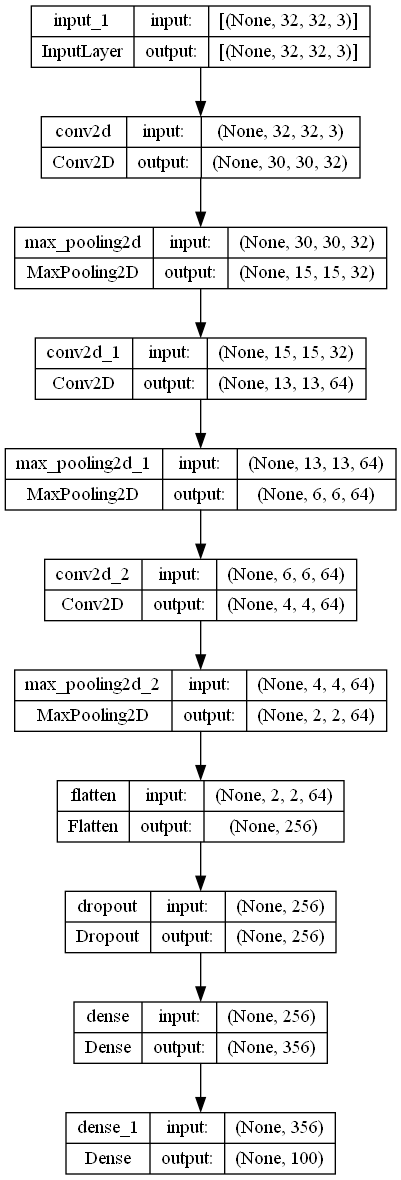
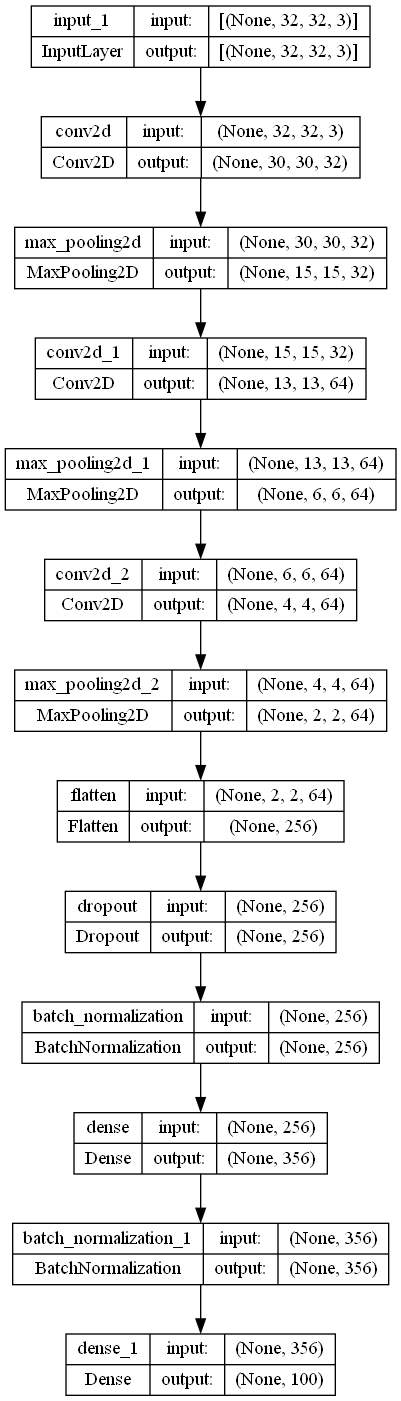
Accuracy Improvements + Advanced Visualizations
Progress Updates:
- 7% accuracy increase between RCM and Dense
- This isn't too accurate, since RCM has way more connections than Dense
- The propagation cap is now at 4 instead of 2

Changelog:
- Added a plot_from_model method to visualization.py
- Changed the example CIFAR configuration of the model from using ReLU-ReLU-Softmax to using only ReLU, with an additional Softmax conversion Dense layer at the end of the network
- Changed hyperparameters of CIFAR example for higher accuracy (optimizer, epochs, etc.)
- Added model saving ability to CIFAR example
- Renamed variables inside test_rcm.py for more clarity/readability

To Do:
- Update the README with the new data

Changed region(s): [[0.0, 0.0, 1.0, 1.0]]

diff --git a/examples/basic_cifar.py b/examples/basic_cifar.py
@@ -17,7 +17,8 @@ from keras.layers import (
     MaxPooling2D,
     Flatten,
     Dropout,
-    Dense
+    Dense,
+    BatchNormalization
 )
 import tensorflow as tf
 
@@ -27,15 +28,14 @@ from rcm_layer import RCM, ActivationTable
 # Defines Model Hyperparameters
 NUM_CLASSES = 100
 INPUT_SHAPE = (32, 32, 3)
-ACTIVATION_TABLE: ActivationTable = { # NOTE: The "ActivationTable" type annotation is not required, but recommended
-    "inputs": "relu", 
-    "hidden": "relu", 
-    "outputs": "softmax"
-}
 BATCH_SIZE = 128
-EPOCHS = 100
-HIDDEN_UNITS = 0
-NUM_PROPAGATIONS = 2
+EPOCHS = 600
+HIDDEN_UNITS = 100
+RCM_OUTPUTS = 100
+NUM_PROPAGATIONS = 5
+NORMALIZATION = None
+OPTIMIZER = "adam"
+DENSE_NORM = True # Whether normalization should be applied to the standard dense layer
 
 # Load MNIST dataset
 (x_train, y_train), (x_test, y_test) = tf.keras.datasets.cifar100.load_data()
@@ -48,9 +48,9 @@ x_test = np.expand_dims(x_test, -1)
 y_train = tf.keras.utils.to_categorical(y_train, NUM_CLASSES)
 y_test = tf.keras.utils.to_categorical(y_test, NUM_CLASSES)
 
-def equivalent_dense_nodes(input_nodes: int, hidden_units: int, output_nodes: int) -> int:
+def equivalent_dense_nodes(input_nodes: int, hidden_units: int, rcm_outputs: int, final_outputs: int) -> int:
     """Calculates the necessary number of hidden Dense nodes needed to equal the same number of parameters as the RCM layer"""
-    return (input_nodes + hidden_units + output_nodes) ** 2 // (input_nodes + output_nodes)
+    return ((input_nodes + hidden_units + rcm_outputs) ** 2  + (rcm_outputs * final_outputs)) // (input_nodes + final_outputs)
 
 def create_model(model_type: str) -> tf.keras.Model:
     """Creates a model with either an RCM or Dense layer"""
@@ -67,22 +67,28 @@ def create_model(model_type: str) -> tf.keras.Model:
 
     # Creates either a Dense layer or an RCM layer
     if model_type == "rcm":
-        outputs = RCM(
+        layer = RCM(
             hidden_units=HIDDEN_UNITS, 
             output_units=NUM_CLASSES,
             num_propagations=NUM_PROPAGATIONS, 
-            activations=ACTIVATION_TABLE,
+            activations="relu",
+            normalization_position=NORMALIZATION
         )(dropout)
+        norm = BatchNormalization()(layer)
     elif model_type == "dense":
         nodes = equivalent_dense_nodes(
             dropout.get_shape()[-1], 
             HIDDEN_UNITS, 
             NUM_CLASSES
         )
-        hidden_layer = Dense(nodes, activation="relu")(dropout)
-        outputs = Dense(NUM_CLASSES, activation="softmax")(hidden_layer)
+        norm = BatchNormalization()(dropout)
+        layer = Dense(nodes, activation="relu")(norm if DENSE_NORM else dropout)
+        norm = BatchNormalization()(layer)
     else:
         raise ValueError(f"'model_type' must either be 'rcm' or 'dense', got {model_type}.")
+    
+    # Adds a final output layer
+    outputs = Dense(NUM_CLASSES, activation="softmax")(norm if DENSE_NORM else layer)
     
     # Returns final model
     return tf.keras.Model(inputs, outputs)
@@ -94,15 +100,19 @@ for model_type in MODEL_TYPES:
     model = create_model(model_type)
     model.compile(
         loss=tf.keras.losses.CategoricalCrossentropy(),
-        optimizer=tf.keras.optimizers.RMSprop(),
+        optimizer=OPTIMIZER,
         metrics=["accuracy"],
     )
 
+    # Create filename
+    dense_norm_str = "DenseNorm" if DENSE_NORM else "NoDenseNorm"
+    filename = f"CIFAR_{EPOCHS}_{HIDDEN_UNITS}_{model_type}_{OPTIMIZER}_{dense_norm_str}"
+    log_dir = f"models/logs/fit/{filename}"
+
     # Creates visualizations and logs
     tf.keras.utils.plot_model(model, to_file=f"models/CIFAR_{model_type}.png", show_shapes=True)
-    log_dir = f"models/logs/fit/CIFAR_{EPOCHS}_{HIDDEN_UNITS}_{model_type}"
     if model_type == "rcm":
-        log_dir += f"_{NUM_PROPAGATIONS}"
+        log_dir += f"_{NUM_PROPAGATIONS}_{NORMALIZATION}"
     if os.path.exists(log_dir) and os.path.isdir(log_dir):
         shutil.rmtree(log_dir)
     tensorboard_callback = tf.keras.callbacks.TensorBoard(log_dir=log_dir, histogram_freq=1)
@@ -114,3 +124,6 @@ for model_type in MODEL_TYPES:
     score = model.evaluate(x_test, y_test, verbose=0)
     print(f"{model_type} test loss:", score[0])
     print(f"{model_type} test accuracy:", score[1])
+
+    # Save model in SavedModel format
+    model.save(f"models/{filename}")

diff --git a/rcm_layer/visualizations.py b/rcm_layer/visualizations.py
@@ -7,6 +7,8 @@ __author__ = "Hudson Liu"
 __email__ = "hudsonliu0@gmail.com"
 
 import matplotlib.pyplot as plt
+import numpy as np
+from tqdm import tqdm
 from math import sin, cos, pi
 
 def plot_rcm_layer(num_nodes: int, colors: list[str] = ["red", "blue"], circle_color = "red"):
@@ -63,6 +65,48 @@ def _base_plot(num_nodes: int, colors: list[str], circle_color: str):
     plt.ylim([-1.2, 1.2])
     plt.axis('off')
 
-# TODO add "plot_rcm_3d"
+def plot_from_weights(weights: np.ndarray, input_units: int, hidden_units: int):
+    """Creates a plot of the RCM layer given an array of weights"""
+    # Create list of angles for all nodes
+    assert weights.shape[0] == weights.shape[1]
+    angles = [(2 * pi * x) / weights.shape[0] for x in range(weights.shape[0])]
 
-# TODO add "plot_from_model"; plots from keras model trained instance (figure out a way to detect from this layer specifically, and color weights accordingly)
+    # Cap outliers
+    q_25, q_75 = np.percentile(weights, [25, 75])
+    iqr = q_75 - q_25
+    weights[weights > (1.5 * iqr + q_75)] = q_75
+    weights[weights < (-1.5 * iqr - q_25)] = q_25
+
+    # Normalize node weights
+    min_, max_ = np.min(weights), np.max(weights)
+    weights = np.array([[(col - min_) / (max_ - min_) for col in row] for row in weights])
+
+    # Generate points and create lines
+    OFFSET = angles[1] / 25
+    for (node, connection), val in tqdm(np.ndenumerate(weights), desc="Plotting Lines", total=weights.shape[0] ** 2):
+        # Augment the angles by a certain offset denoted in radians
+        theta_1 = angles[node] - OFFSET
+        theta_2 = angles[connection] + OFFSET
+        
+        # Get the two points's x and y coords
+        line_x = [cos(theta_1), cos(theta_2)]
+        line_y = [sin(theta_1), sin(theta_2)]
+        
+        # Plot the line
+        if node < input_units:
+            color = "blue"
+        elif node < hidden_units + input_units:
+            color = "green"
+        else:
+            color = "red"
+        plt.plot(line_x, line_y, color=color, alpha=val, linewidth=0.0025)
+
+    # Plot model
+    plt.gca().set_aspect(1)
+    plt.xlim([-1.2, 1.2])
+    plt.ylim([-1.2, 1.2])
+    plt.axis('off')
+    plt.savefig(f'models/model.svg', transparent=True, format="svg", bbox_inches="tight")
+    plt.cla()
+
+# TODO add "plot_rcm_3d"

diff --git a/tests/test_rcm.py b/tests/test_rcm.py
@@ -16,25 +16,28 @@ class ShapeTest(unittest.TestCase):
 
     def test_output_shape(self):
         """Checks if outputs are the expected shape"""
-        rcm_instance = self.__get_rcm(5, 2)(Input(shape=(9,)))
-        correct = [None, 2]
-        actual = rcm_instance.shape.as_list()
+        INPUTS, HIDDEN, OUTPUTS = 9, 5, 2
+        rcm = self.__get_rcm(HIDDEN, OUTPUTS)(Input(shape=(INPUTS,)))
+        correct = [None, OUTPUTS]
+        actual = rcm.shape.as_list()
         self.assertEqual(correct, actual)
 
     def test_internal_weight_shape(self):
         """Checks if internal weight tensors are the expected shape"""
-        rcm_instance = self.__get_rcm(5, 2)
-        rcm_instance.build(input_shape=(9,))
-        correct = [9 + 5 + 2, 9 + 5 + 2]
-        actual = rcm_instance.w.shape.as_list()
+        INPUTS, HIDDEN, OUTPUTS = 9, 5, 2
+        rcm = self.__get_rcm(HIDDEN, OUTPUTS)
+        rcm.build(input_shape=(INPUTS,))
+        correct = [INPUTS + HIDDEN + OUTPUTS, INPUTS + HIDDEN + OUTPUTS]
+        actual = rcm.w.shape.as_list()
         self.assertEqual(correct, actual)
     
     def test_internal_bias_shape(self):
         """Checks if internal bias tensors are the expected shape"""
-        rcm_instance = self.__get_rcm(5, 2)
-        rcm_instance.build(input_shape=(9,))
-        correct = [9 + 5 + 2]
-        actual = rcm_instance.b.shape.as_list()
+        INPUTS, HIDDEN, OUTPUTS = 9, 5, 2
+        rcm = self.__get_rcm(HIDDEN, OUTPUTS)
+        rcm.build(input_shape=(INPUTS,))
+        correct = [INPUTS + HIDDEN + OUTPUTS]
+        actual = rcm.b.shape.as_list()
         self.assertEqual(correct, actual)
     
     def __get_rcm(self, hidden, outputs):

diff --git a/examples/basic_visualizations.py b/examples/basic_visualizations.py
@@ -6,7 +6,22 @@
 __author__ = "Hudson Liu"
 __email__ = "hudsonliu0@gmail.com"
 
-from rcm_layer import plot_rcm_layer, plot_and_save_logo
+import tensorflow as tf
+from rcm_layer import plot_rcm_layer, plot_and_save_logo, plot_from_weights
+
+# Imports CIFAR model
+model = tf.keras.models.load_model('models/CIFAR_600_100_rcm_adam_DenseNorm')
+rcm_layer = model.layers[-3]
+weights = rcm_layer.get_weights()[0]
+print(weights[:2000])
+
+# Get model configuration
+input_units = rcm_layer.input_shape[-1]
+hidden_units = rcm_layer.get_config()["hidden_units"]
+output_units = rcm_layer.output_shape[-1]
+
+# Create visualization
+plot_from_weights(weights, input_units, hidden_units)
 
 # Plots an RCM Layer of 12 nodes
 plot_rcm_layer(12, colors=["limegreen", "darkgreen"], circle_color="green")
